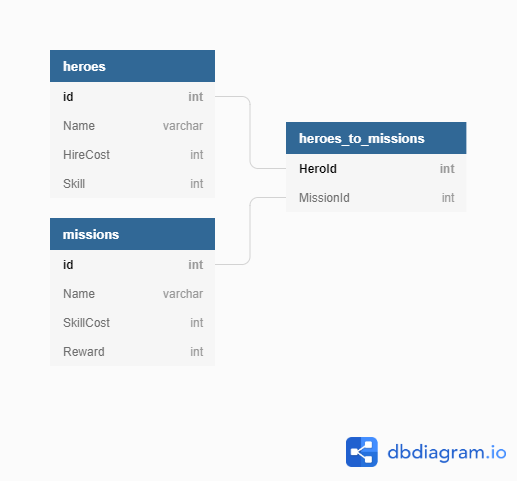
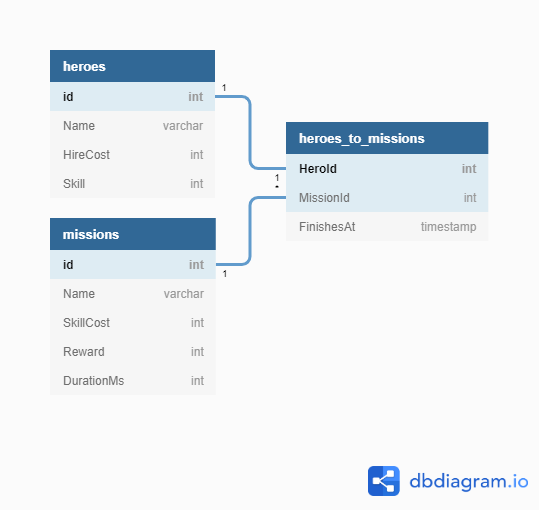
add mission duration and TryEndMission endpoint.

diff --git a/HeroCommandAPI/wwwroot/js/site.js b/HeroCommandAPI/wwwroot/js/site.js
@@ -153,11 +153,13 @@ function addMission() {
     const addMissionNameTextbox = document.getElementById('add-mission-name');
     const addMissionSkillCostTextbox = document.getElementById('add-mission-skill');
     const addMissionRewardTextbox = document.getElementById('add-mission-reward');
+    const addMissionDurationTextbox = document.getElementById('add-mission-duration');
 
     const mission = {
         name: addMissionNameTextbox.value.trim(),
         skillCost: parseInt(addMissionSkillCostTextbox.value.trim(), 10),
-        reward: parseInt(addMissionRewardTextbox.value.trim(), 10)
+        reward: parseInt(addMissionRewardTextbox.value.trim(), 10),
+        durationMs: parseInt(addMissionDurationTextbox.value.trim(), 10)
     };
 
     fetch(missionUri, {
@@ -174,6 +176,7 @@ function addMission() {
             addMissionNameTextbox.value = '';
             addMissionSkillCostTextbox.value = '';
             addMissionRewardTextbox.value = '';
+            addMissionDurationTextbox.value = '';
         })
         .catch(error => console.error('Unable to add item.', error));
 }
@@ -193,6 +196,7 @@ function displayMissionEditForm(id) {
     document.getElementById('edit-mission-id').value = item.id;
     document.getElementById('edit-mission-skill').value = item.skillCost;
     document.getElementById('edit-mission-reward').value = item.reward;
+    document.getElementById('edit-mission-duration').value = item.durationMs;
     document.getElementById('editMissionForm').style.display = 'block';
 }
 
@@ -202,7 +206,8 @@ function updateMission() {
         id: parseInt(itemId, 10),
         name: document.getElementById('edit-mission-name').value.trim(),
         skillCost: parseInt(document.getElementById('edit-mission-skill').value.trim(), 10),
-        reward: parseInt(document.getElementById('edit-mission-reward').value.trim(), 10)
+        reward: parseInt(document.getElementById('edit-mission-reward').value.trim(), 10),
+        durationMs: parseInt(document.getElementById('edit-mission-duration').value.trim(), 10)
     };
 
     fetch(`${missionUri}/${itemId}`, {
@@ -269,10 +274,14 @@ function _displayMissions(data) {
         td3.appendChild(hireCostTextNode);
 
         let td4 = tr.insertCell(4);
-        td4.appendChild(editButton);
+        let durationTextNode = document.createTextNode(item.durationMs);
+        td4.appendChild(durationTextNode);
 
         let td5 = tr.insertCell(5);
-        td5.appendChild(deleteButton);
+        td5.appendChild(editButton);
+
+        let td6 = tr.insertCell(6);
+        td6.appendChild(deleteButton);
     });
 
     missions = data;

diff --git a/HeroCommandAPI/wwwroot/index.html b/HeroCommandAPI/wwwroot/index.html
@@ -16,7 +16,7 @@
             <label>Skill</label>
             <input type="text" id="add-hero-skill" placeholder="0"><br />
             <label>Cost</label>
-            <input type="text" id="add-hero-hireCost" placeholder="0"><br />
+            <input type="text" id="add-hero-hireCost" placeholder="0"><br />            
             <input type="submit" value="Add">
         </form>
 
@@ -62,6 +62,8 @@
             <input type="text" id="add-mission-skill" placeholder="0"><br />
             <label>Reward</label>
             <input type="text" id="add-mission-reward" placeholder="0"><br />
+            <label>Duration(ms)</label>
+            <input type="text" id="add-mission-duration" placeholder="100"><br />
             <input type="submit" value="Add">
         </form>
 
@@ -76,6 +78,8 @@
                 <input type="text" id="edit-mission-skill" /><br />
                 <label>Reward</label>
                 <input type="text" id="edit-mission-reward" /><br />
+                <label>Duration(ms)</label>
+                <input type="text" id="edit-mission-duration" placeholder="100"><br />
                 <input type="submit" value="Save">
                 <a onclick="closeMissionInput()" aria-label="Close">&#10006;</a>
             </form>
@@ -89,6 +93,7 @@
                 <th>Name</th>
                 <th>Skill Requirement</th>
                 <th>Reward</th>
+                <th>Duration(ms)</th>
                 <th></th>
                 <th></th>
             </tr>

diff --git a/HeroCommandAPI/Controllers/MissionsController.cs b/HeroCommandAPI/Controllers/MissionsController.cs
@@ -2,6 +2,7 @@
 using Microsoft.AspNetCore.Mvc;
 using Microsoft.EntityFrameworkCore;
 using Microsoft.EntityFrameworkCore.Internal;
+using System;
 using System.Collections.Generic;
 using System.Linq;
 using System.Threading.Tasks;
@@ -90,22 +91,51 @@ namespace HeroCommandAPI.Controllers
         {
             List<Hero> heroes = await GetHeroesByIds(heroIds);
             Mission mission = await _context.Missions.FindAsync(id);
-            string result;
 
             if (HeroesSkilledEnoughForMission(heroes, mission))
             {
                 SendHeroesOnMission(heroes, mission);
-                BoostHeroes(heroes);
                 await _context.SaveChangesAsync();
-                result = "Success";
+                return "Success";
             }
             else
             {
                 _context.RejectChanges();
-                result = "Heroes need more skill";
+                return "Heroes need more skill";
             }
+        }
 
-            return result;
+        // DELETE: api/Missions/TryEndMission/1
+        [HttpDelete("TryEndMission/{id}")]
+        public async Task<ActionResult<string>> TryEndMission(int id)
+        {
+            List<HeroToMission> heroesToMissions = await _context.Heroes_to_missions.Where(entry => entry.MissionId == id).ToListAsync();
+            if (heroesToMissions.Count == 0) return "Mission not underway.";
+            DateTime finishedAt = heroesToMissions.FirstOrDefault().FinishesAt;
+
+            if(DateTime.Now > finishedAt)
+            {
+                Mission mission = await _context.Missions.FindAsync(id);
+                List<Hero> heroes = new List<Hero>();
+                foreach(HeroToMission htm in heroesToMissions)
+                {
+                    Hero hero = await _context.Heroes.FindAsync(htm.HeroId);
+                    if(hero != null)
+                    {
+                        heroes.Add(hero);
+                    }
+                }
+
+                BoostHeroes(heroes);
+                _context.Heroes_to_missions.RemoveRange(heroesToMissions);
+                await _context.SaveChangesAsync();
+
+                return "Mission complete";
+            }
+            else
+            {
+                return "Mission not yet completed";
+            }
         }
 
         // DELETE: api/Missions/5
@@ -156,12 +186,14 @@ namespace HeroCommandAPI.Controllers
 
         private void SendHeroesOnMission(List<Hero> heroes, Mission mission)
         {
+            DateTime doneAt = DateTime.Now.AddMilliseconds(mission.DurationMs);
             foreach (Hero hero in heroes)
             {
                 var link = new HeroToMission
                 {
                     HeroId = hero.Id,
-                    MissionId = mission.Id
+                    MissionId = mission.Id,
+                    FinishesAt = doneAt
                 };
 
                 _context.Heroes_to_missions.Add(link);

diff --git a/HeroCommandAPI/Models/HeroToMission.cs b/HeroCommandAPI/Models/HeroToMission.cs
@@ -1,4 +1,6 @@
-using System.ComponentModel.DataAnnotations;
+using Google.Protobuf.WellKnownTypes;
+using System;
+using System.ComponentModel.DataAnnotations;
 
 namespace HeroCommandAPI.Models
 {
@@ -7,5 +9,6 @@ namespace HeroCommandAPI.Models
         [Key]
         public int HeroId { get; set; }
         public int MissionId { get; set; }
+        public DateTime FinishesAt { get; set; }
     }
 }

diff --git a/HeroCommandAPI/Models/Mission.cs b/HeroCommandAPI/Models/Mission.cs
@@ -6,5 +6,6 @@
         public string Name { get; set; }
         public int SkillCost { get; set; }
         public int Reward { get; set; }
+        public int DurationMs { get; set; }
     }
 }
